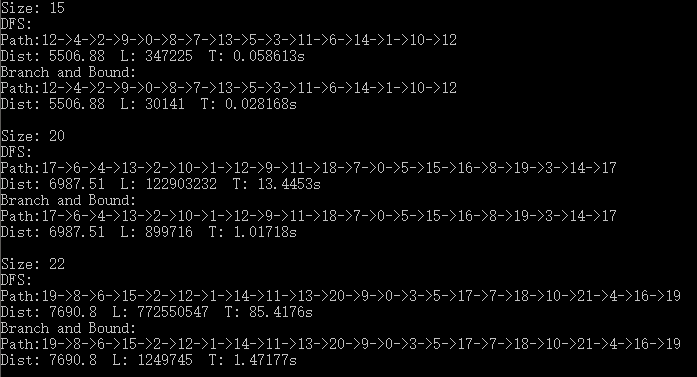
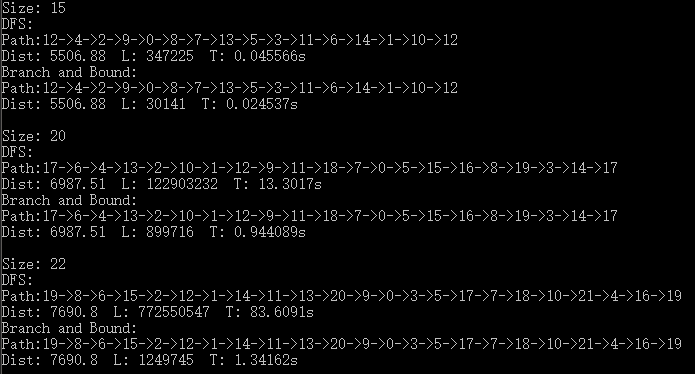
Add files via upload

Changed region(s): [[0.0, 0.6765, 0.9971, 1.0], [0.0, 0.3235, 0.9065, 0.6471], [0.0, 0.0, 0.6647, 0.2941]]

diff --git a/aa-chapter5&6/tsp.cpp b/aa-chapter5&6/tsp.cpp
@@ -92,7 +92,7 @@ void branch(const std::vector<std::vector<double>> &data, const int &start_point
             }
         }
         else {
-            if (cur.dist < dist) {
+            if (cur.lower_bound < dist) {
                 std::vector<bool> visited(data.size(), false);
                 for (auto i : cur.path) {
                     visited[i] = true;
@@ -154,8 +154,10 @@ void tsp(const std::vector<std::vector<double>> &data, const int start_point) {
 int main() {
     const auto data15 = get_data(15);
     const auto data20 = get_data(20);
+    const auto data22 = get_data(22);
     tsp(data15, 12);
     tsp(data20, 17);
+    tsp(data22, 19);
     system("pause");
     return 0;
 }
